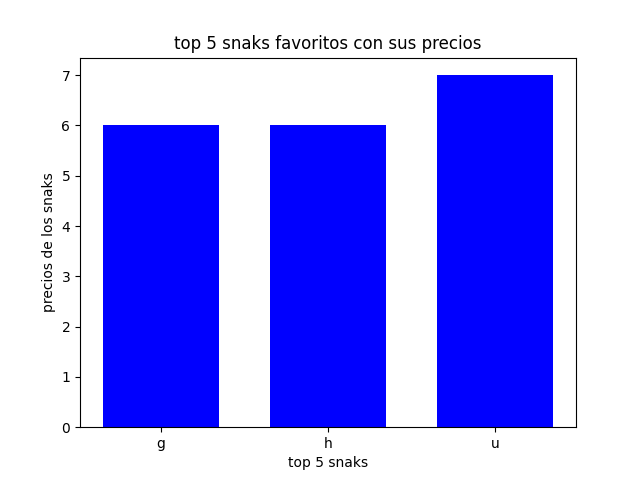
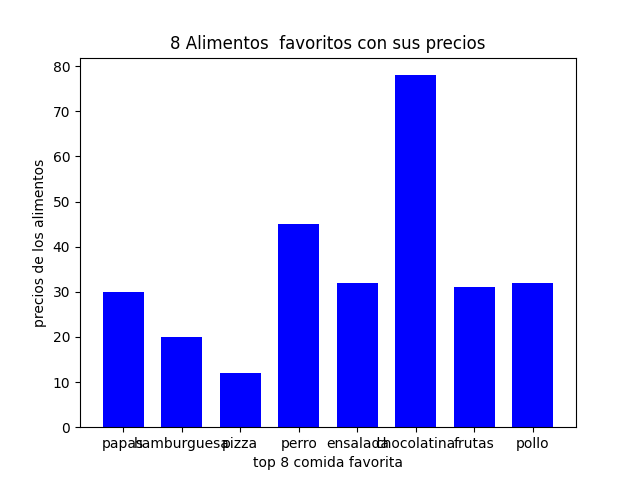
quiz4 graficos

diff --git a/examenes.py/examenFinal.py b/examenes.py/examenFinal.py
@@ -1,0 +1,112 @@
+import matplotlib.pyplot as plt
+
+#---punto 1---#
+
+
+PREGUNTA_FAV = 'Cuales son tus 8 alimentos favoritos?  : '
+PREGUNTA_PRECIOS = 'Cuales son los precios de esos productos que elejiste? : '
+favoritos= []
+n=8
+while(n>0):
+    favorito = input (PREGUNTA_FAV)
+    favoritos.append(favorito)
+    n= n-1
+
+precios=[]
+n=8
+while(n>0):
+    precio = int (input(PREGUNTA_PRECIOS))
+    precios.append(precio)
+    n=n-1
+
+
+#----Grafico de barras----#
+
+plt.bar(favoritos, precios, width= 0.7, color= 'b' )
+plt.title('8 Alimentos  favoritos con sus precios')
+plt.xlabel('top 8 comida favorita')
+plt.ylabel('precios de los alimentos')
+plt.savefig ('graficoSnaks.png')
+
+plt.show()
+
+
+print(60*'*2*')
+#---punto2---#
+class Humano ():
+    def __init__ (self, nameIn, ageIn, sexIn):
+        self.name = nameIn
+        self.age = ageIn
+        self.sex = sexIn
+    def hablar (self, mensaje):
+        print(f'''Hola mi nombre es {self.name} 
+        y tengo {self.age} mi sexo es {self.sex} y 
+        ''', mensaje)
+
+
+humano1 = Humano('laura', 34, 'femenino')
+humano1.hablar ('me encanta salir a comer con mis amigos a comer hamburguesa')
+
+print(60*'*2*')
+class Doctor (Humano):
+    def __init__ (self, nameIn, ageIn, sexIn, pesoIn, alturaIn):
+        Humano.__init__(self, nameIn, ageIn, sexIn )
+        self.peso = pesoIn
+        self.altura = alturaIn
+        print(f'Hola me llamo {self.name} tengo {self.age} años soy su Doctor y mi sexo es {self.sex} ')
+    def imc (self, pesoIn, alturaIn):
+        imc = pesoIn / (alturaIn)**2
+        print(f' mi indice de masa corporal es {imc} kilos')
+
+doc1 = Doctor( 'rafael', 24, 'masculino', 60, 1.80)
+doc1.imc (70, 1.70)
+
+
+
+print(60*'*3*')
+IsCorrectInfo = False
+while (IsCorrectInfo == False):
+    try:
+        name = input('Ingresa tu nombre por favor : ')
+        assert(name.isalpha())
+        IsCorrectInfo = True
+    except AssertionError:
+        print ('Ingresaste un dato no valido no se admiten numeros en tu nombre')
+
+IsCorrectInfo =False
+while (IsCorrectInfo == False):
+    try: 
+        dolares = float(input('Ingresa el monto de dinero que tienes en dolares : '))
+        euros = dolares* 0.82
+        print(f' hola mi nombre es {name} y el monto de dolares que tengo convertido a euros es {euros} euros ')
+        IsCorrectInfo = True
+    except ValueError:
+        print('el valor que ingresaste no es valido')
+
+
+
+
+
+
+
+print(60*'*4*')
+import sys
+nombre = input('ingrese su nombre : ')
+enfermedad =  input('ingrese su enfermedad: ')
+precio = int (input('cual es el precio de la consulta? : '))
+
+nombreArchivo = 'pacientes.txt'
+try:
+    archivo = open (nombreArchivo)
+    print('1')
+except FileNotFoundError:
+    archivo=open (nombreArchivo, 'w', encoding='UTF-8')
+    descripcion = 'Archivo de pacientes neurologicos'
+    print('2')
+    archivo.writelines(descripcion)
+    sys.exit(1)
+
+archivo=open(nombreArchivo, 'a')
+linea = ' \nnombre: ' + nombre + ' enfermedad: ' + str(enfermedad) + ' precio: ' + str(precio)
+archivo.writelines(linea)
+archivo.close()

diff --git a/clases programacion/excepciones/ejemplo.py b/clases programacion/excepciones/ejemplo.py
@@ -1,0 +1,46 @@
+
+isCorrectInfo = False
+while (isCorrectInfo == False):
+    try:
+        edad = int (input('ingrese su edad : '))
+        isCorrectInfo = True 
+    except ValueError:
+        print ('ingresaste un dato no valido')
+nombreArchivo= input('Ingrese el nombre del archivo que desea encontrar : ')
+try:
+    archivo = open (nombreArchivo)
+except FileNotFoundError: 
+    print(f' El archivo {nombreArchivo} no se ha encontrado')
+
+base =4
+divisor = 0
+try:
+    dividir = base/divisor
+except ZeroDivisionError:
+    print('El divisor ingresado es ingual a cero por lo tanto es imposible dividir')
+
+nombre = 'Daniel'
+print(nombre.isalpha())
+assert(nombre.isalpha())
+
+isCorrectInfo = False
+while (isCorrectInfo == False):
+    try:
+        nombre = input('ingrese su nombre: ')
+        assert(nombre.isalpha())
+        isCorrectInfo = True 
+    except AssertionError:
+        print ('ingresaste un dato no valido')
+
+
+
+isCorrectInfo = False
+while (isCorrectInfo == False):
+    try:
+        edad = int (input('ingrese su edad : '))
+        assert(edad >= 18)
+        isCorrectInfo = True 
+    except AssertionError:
+        print ('Los menores de edad no pueden acceder')
+    except ValueError:
+        print('Las edades son numeros enteros')

diff --git a/clases programacion/claases/manejarArchivos.py b/clases programacion/claases/manejarArchivos.py
@@ -1,0 +1,25 @@
+import sys
+nombre = input('ingrese su nombre : ')
+edad = int (input('ingrese su edad : '))
+estatura = float (input('ingrese su estatura : '))
+
+nombreArchivo = 'estudiantes.txt'
+try:
+    archivo = open (nombreArchivo)
+    print('1')
+except FileNotFoundError:
+    archivo=open (nombreArchivo, 'w', encoding='UTF-8')
+    descripcion = 'Archivo de estudiantes'
+    print('2')
+    archivo.writelines(descripcion)
+    sys.exit(1)
+
+archivo=open(nombreArchivo, 'a')
+linea = ' \nnombre: ' + nombre + ' edad: ' + str(edad) + ' estatura: ' + str(estatura)
+archivo.writelines(linea)
+archivo.close()
+
+#leer
+with open (nombreArchivo) as reader:
+    for line in reader:
+        print(line)
